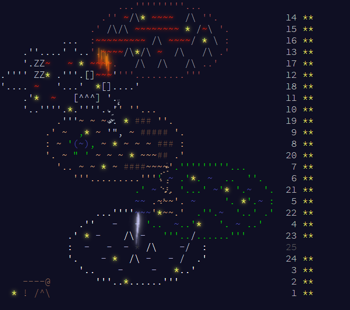
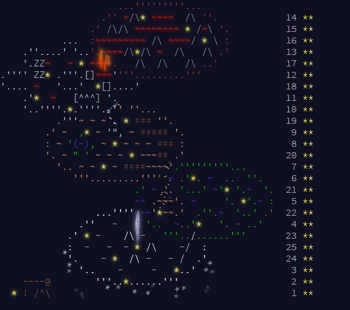
Day 25

diff --git a/2023/main_page/aoc/index_25.html b/2023/main_page/aoc/index_25.html
@@ -1,0 +1,146 @@
+<!DOCTYPE html>
+<html lang="en-us">
+<head>
+<meta charset="utf-8"/>
+<title>Advent of Code 2023</title>
+<!--[if lt IE 9]><script src="html5.js"></script><![endif]-->
+<link href='SourceCodePro.css' rel='stylesheet' type='text/css'>
+<link rel="stylesheet" type="text/css" href="style.css"/>
+<link rel="stylesheet alternate" type="text/css" href="highcontrast.css?0" title="High Contrast"/>
+<link rel="shortcut icon" href="favicon.png"/>
+</head><body>
+<main>
+<style>
+.calendar .islefall {
+  position: relative;
+}
+.calendar .islefall > span {
+  position: absolute;
+  animation: anim-calendar-islefall 3s linear infinite;
+  display: inline-block;
+  color: #ccccff;
+  text-shadow: 0 0 3px #ccccff, 0 0 5px #ccccff, 0 0 10px #ffffff, 0 0 15px #ffffff;
+  pointer-events: none;
+}
+@keyframes anim-calendar-islefall {
+    0% { transform: translateY(0);   opacity:0.0; }
+   10% {                             opacity:0.8; }
+  100% { transform: translateY(6ch); opacity:0.0; }
+}
+
+.calendar .gearfall {
+  position: relative;
+}
+.calendar .gearfall > span {
+  position: absolute;
+  animation: anim-calendar-gearfall-b 3s linear infinite;
+  display: inline-block;
+  color: #d4dde4;
+  pointer-events: none;
+}
+.calendar .gearfall > span.gearfall-whozit, .calendar .gearfall > span.gearfall-whatzit, .calendar .gearfall > span.gearfall-thingamabob {
+  animation-name: anim-calendar-gearfall-t;
+}
+@keyframes anim-calendar-gearfall-b {
+    0% { transform: translateY(0)   rotate(0)     translateY(-.5ch); opacity:0.0; }
+   20% {                                                             opacity:1.0; }
+   80% {                                                             opacity:1.0; }
+  100% { transform: translateY(4ch) rotate(2turn) translateY(-.5ch); opacity:0.0; }
+}
+@keyframes anim-calendar-gearfall-t {
+    0% { transform: translateY(0)   rotate(0)     translateY(.5ch); opacity:0.0; }
+   10% {                                                            opacity:1.0; }
+   90% {                                                            opacity:1.0; }
+  100% { transform: translateY(4ch) rotate(2turn) translateY(.5ch); opacity:0.0; }
+}
+
+.calendar .calendar-color-g { color:#00cc00; }
+.calendar .calendar-color-k { color:#6b4d3b; }
+.calendar .calendar-color-s { color:#e3b585; }
+.calendar .sandfall {
+  position: relative;
+}
+.calendar .sandfall > span {
+  position: absolute;
+  animation: anim-calendar-sandfall 3s linear infinite;
+  display: inline-block;
+  color: #e3b585;
+  pointer-events: none;
+}
+@keyframes anim-calendar-sandfall {
+    0% { transform: translateY(0);     opacity:0.0; }
+   10% {                               opacity:0.8; }
+   90% {                               opacity:0.8; }
+  100% { transform: translateY(7.5ch); opacity:0.0; }
+}
+
+.calendar .calendar-color-l { color:#ccccff; }
+.calendar .calendar-color-b { color:#5555bb; }
+.calendar .snowfall {
+  position: relative;
+}
+.calendar .snowfall > span {
+  position: absolute;
+  animation: anim-calendar-snowfall 10s linear infinite;
+  display: inline-block;
+  color: #ffffff;
+  pointer-events: none;
+}
+@keyframes anim-calendar-snowfall {
+    0% { transform: translate(0,0)      rotate(0);       opacity:0.0; }
+   10% {                                                 opacity:0.8; }
+  100% { transform: translate(1ch, 6ch) rotate(0.5turn); opacity:0.0; }
+}
+
+.calendar .calendar-color-w { color:#ffffff; }
+.calendar .calendar-color-v { color:#df2308; text-shadow:0 0 5px #df2308, 0 0 10px #df2308; }
+.calendar .calendar-color-y { color:#ffff66; text-shadow:0 0 5px #ffff66, 0 0 10px #ffff66; }
+.calendar .calendar-color-m { color:#d4dde4; }
+.calendar .calendar-color-n { color:#9b715b; }
+.calendar .calendar-color-a { color:#a5a8af; }
+.calendar .lavafall {
+  position: relative;
+}
+.calendar .lavafall > span {
+  position: absolute;
+  animation: anim-calendar-lavafall 3s linear infinite;
+  display: inline-block;
+  pointer-events: none;
+}
+@keyframes anim-calendar-lavafall {
+    0% { transform: translateY(0);   opacity:0.0; color:#faa718; text-shadow: 0 0 3px #faa718, 0 0 5px #faa718, 0 0 10px #faa718, 0 0 15px #faa718, 0 0 20px #faa718; }
+   20% {                             opacity:0.8; }
+   80% {                             opacity:0.8; }
+  100% { transform: translateY(3ch); opacity:0.0; color:#df2308; text-shadow: 0 0 3px #df2308, 0 0 5px #df2308, 0 0 10px #df2308, 0 0 15px #df2308, 0 0 20px #df2308; }
+}
+
+.calendar .calendar-color-i { color:#a25151; }
+</style>
+<pre class="calendar calendar-perfect"><a aria-label="Day 14, two stars" href="day_14.html" class="calendar-day14 calendar-verycomplete">                     <span class="calendar-color-i">...'''''''''...</span>                    
+                  <span class="calendar-color-i">.''</span> <span class="calendar-color-v">~</span><span class="calendar-color-a">/\</span><span class="calendar-color-y">*</span> <span class="calendar-color-v">~~~~</span>  <span class="calendar-color-a">/\</span> <span class="calendar-color-i">''.</span>            <span class="calendar-day">14</span> <span class="calendar-mark-complete">*</span><span class="calendar-mark-verycomplete">*</span></a>
+<a aria-label="Day 15, two stars" href="day_15.html" class="calendar-day15 calendar-verycomplete">                <span class="calendar-color-i">.'</span> <span class="calendar-color-a">/\/\</span> <span class="calendar-color-v">~~~~~~~~</span> <span class="calendar-color-y">*</span> <span class="calendar-color-a">/</span><span class="calendar-color-v">~</span><span class="calendar-color-a">\</span> <span class="calendar-color-i">'.</span>          <span class="calendar-day">15</span> <span class="calendar-mark-complete">*</span><span class="calendar-mark-verycomplete">*</span></a>
+<a aria-label="Day 16, two stars" href="day_16.html" class="calendar-day16 calendar-verycomplete">           <span class="calendar-color-m">...</span>  <span class="calendar-color-i">:</span><span class="calendar-color-v">~~~~~~~~~</span> <span class="calendar-color-a">/\</span> <span class="calendar-color-v">~~~~</span><span class="calendar-color-a">/</span> <span class="calendar-color-y">*</span> <span class="calendar-color-a">\</span> <span class="calendar-color-i">:</span>          <span class="calendar-day">16</span> <span class="calendar-mark-complete">*</span><span class="calendar-mark-verycomplete">*</span></a>
+<a aria-label="Day 13, two stars" href="day_13.html" class="calendar-day13 calendar-verycomplete">    <span class="calendar-color-m">.''....'</span> <span class="calendar-color-m">'..</span><span class="calendar-color-i">'.<span class="lavafall" style=""><span style="left:-8.9px;top:-8.9px;animation-delay:-2.90s">|</span><span style="left:5.8px;top:5.8px;animation-delay:-0.52s">|</span><span style="left:-6.9px;top:-6.9px;animation-delay:-1.56s">|</span><span style="left:2.9px;top:2.9px;animation-delay:-1.79s">|</span><span style="left:6.0px;top:6.0px;animation-delay:-2.98s">|</span><span style="left:-4.1px;top:-4.1px;animation-delay:-1.53s">|</span><span style="left:-4.9px;top:-4.9px;animation-delay:-2.03s">|</span><span style="left:5.6px;top:5.6px;animation-delay:-2.68s">|</span><span style="left:11.0px;top:11.0px;animation-delay:-0.15s">|</span><span style="left:-2.8px;top:-2.8px;animation-delay:-2.12s">|</span><span style="left:-6.5px;top:-6.5px;animation-delay:-2.67s">|</span><span style="left:9.9px;top:9.9px;animation-delay:-0.28s">|</span><span style="left:-1.8px;top:-1.8px;animation-delay:-2.84s">|</span><span style="left:-5.4px;top:-5.4px;animation-delay:-0.55s">|</span><span style="left:1.9px;top:1.9px;animation-delay:-2.01s">|</span><span style="left:-9.7px;top:-9.7px;animation-delay:-2.52s">|</span><span style="left:2.6px;top:2.6px;animation-delay:-2.08s">|</span><span style="left:-5.4px;top:-5.4px;animation-delay:-2.16s">|</span><span style="left:-4.9px;top:-4.9px;animation-delay:-0.55s">|</span><span style="left:-7.9px;top:-7.9px;animation-delay:-1.83s">|</span></span></span><span class="calendar-color-v">~~~~</span><span class="calendar-color-a">/\</span><span class="calendar-color-y">*</span><span class="calendar-color-a">/\</span> <span class="calendar-color-v">~</span>  <span class="calendar-color-a">/\</span>   <span class="calendar-color-a">/\</span> <span class="calendar-color-i">.'</span>          <span class="calendar-day">13</span> <span class="calendar-mark-complete">*</span><span class="calendar-mark-verycomplete">*</span></a>
+<a aria-label="Day 17, two stars" href="day_17.html" class="calendar-day17 calendar-verycomplete">    <span class="calendar-color-m">'.ZZ</span><span class="calendar-color-v">~</span>   <span class="calendar-color-v">~</span> <span class="calendar-color-y">*</span> <span class="calendar-color-v">~~~~</span><span class="calendar-color-i">.</span>   <span class="calendar-color-a">/\</span>  <span class="calendar-color-a">/\</span>   <span class="calendar-color-a">/\</span> <span class="calendar-color-i">..'</span>            <span class="calendar-day">17</span> <span class="calendar-mark-complete">*</span><span class="calendar-mark-verycomplete">*</span></a>
+<a aria-label="Day 12, two stars" href="day_12.html" class="calendar-day12 calendar-verycomplete"><span class="calendar-color-m">.''''</span> <span class="calendar-color-m">ZZ</span><span class="calendar-color-y">*</span> <span class="calendar-color-m">.'''.[]</span><span class="calendar-color-v">~~~</span><span class="calendar-color-m">'</span><span class="calendar-color-i">'''.........'''</span>               <span class="calendar-day">12</span> <span class="calendar-mark-complete">*</span><span class="calendar-mark-verycomplete">*</span></a>
+<a aria-label="Day 18, two stars" href="day_18.html" class="calendar-day18 calendar-verycomplete"><span class="calendar-color-m">'....</span> <span class="calendar-color-v">~</span>   <span class="calendar-color-m">'...'</span>  <span class="calendar-color-y">*</span><span class="calendar-color-m">[]....'</span>                          <span class="calendar-day">18</span> <span class="calendar-mark-complete">*</span><span class="calendar-mark-verycomplete">*</span></a>
+<a aria-label="Day 11, two stars" href="day_11.html" class="calendar-day11 calendar-verycomplete">    <span class="calendar-color-m">.'</span><span class="calendar-color-y">*</span>  <span class="calendar-color-v">~</span>   <span class="calendar-color-m">[^^^]</span> <span class="calendar-color-m">'.</span>                              <span class="calendar-day">11</span> <span class="calendar-mark-complete">*</span><span class="calendar-mark-verycomplete">*</span></a>
+<a aria-label="Day 10, two stars" href="day_10.html" class="calendar-day10 calendar-verycomplete">    <span class="calendar-color-m">'..''''.</span><span class="calendar-color-y">*</span><span class="calendar-color-m">.''''.<span class="gearfall" style=""><span class="gearfall-whatzit" style="left:0.7px;top:-0.7px;animation-delay:-0.10s">&quot;</span><span class="gearfall-thingamabob" style="left:11.0px;top:-11.0px;animation-delay:-2.99s">'</span><span class="gearfall-gadget" style="left:13.4px;top:-13.4px;animation-delay:-2.64s">.</span><span class="gearfall-whozit" style="left:15.3px;top:-15.3px;animation-delay:-0.00s">`</span><span class="gearfall-thingamabob" style="left:4.4px;top:-4.4px;animation-delay:-2.89s">'</span><span class="gearfall-gadget" style="left:19.5px;top:-19.5px;animation-delay:-0.50s">.</span><span class="gearfall-whozit" style="left:9.8px;top:-9.8px;animation-delay:-2.25s">`</span><span class="gearfall-thingamabob" style="left:1.5px;top:-1.5px;animation-delay:-1.04s">'</span><span class="gearfall-gizmo" style="left:13.1px;top:-13.1px;animation-delay:-2.59s">,</span><span class="gearfall-whozit" style="left:13.0px;top:-13.0px;animation-delay:-0.09s">`</span></span>.'</span><span class="calendar-color-s">'</span> <span class="calendar-color-s">''...</span>                       <span class="calendar-day">10</span> <span class="calendar-mark-complete">*</span><span class="calendar-mark-verycomplete">*</span></a>
+<a aria-label="Day 19, two stars" href="day_19.html" class="calendar-day19 calendar-verycomplete">          <span class="calendar-color-s">.</span><span class="calendar-color-m">'''</span><span class="calendar-color-s">~</span> <span class="calendar-color-s">~</span> <span class="calendar-color-s">~</span> <span class="calendar-color-m">.</span> <span class="calendar-color-y">*</span> <span class="calendar-color-k">###</span> <span class="calendar-color-s">''.</span>                    <span class="calendar-day">19</span> <span class="calendar-mark-complete">*</span><span class="calendar-mark-verycomplete">*</span></a>
+<a aria-label="Day 9, two stars" href="day_09.html" class="calendar-day9 calendar-verycomplete">        <span class="calendar-color-s">.'</span> <span class="calendar-color-s">~</span>  <span class="calendar-color-g">,</span><span class="calendar-color-y">*</span> <span class="calendar-color-s">~</span> <span class="calendar-color-m">'&quot;,</span> <span class="calendar-color-s">~</span> <span class="calendar-color-k">#####</span> <span class="calendar-color-s">'.</span>                  <span class="calendar-day"> 9</span> <span class="calendar-mark-complete">*</span><span class="calendar-mark-verycomplete">*</span></a>
+<a aria-label="Day 8, two stars" href="day_08.html" class="calendar-day8 calendar-verycomplete">        <span class="calendar-color-s">:</span> <span class="calendar-color-s">~</span> <span class="calendar-color-g">'</span><span class="calendar-color-b">(~)</span><span class="calendar-color-g">,</span> <span class="calendar-color-s">~</span> <span class="calendar-color-y">*</span> <span class="calendar-color-s">~</span> <span class="calendar-color-s">~</span> <span class="calendar-color-s">~</span> <span class="calendar-color-k">###</span> <span class="calendar-color-s">:</span>                  <span class="calendar-day"> 8</span> <span class="calendar-mark-complete">*</span><span class="calendar-mark-verycomplete">*</span></a>
+<a aria-label="Day 20, two stars" href="day_20.html" class="calendar-day20 calendar-verycomplete">        <span class="calendar-color-s">'.</span> <span class="calendar-color-s">~</span> <span class="calendar-color-g">&quot;</span> <span class="calendar-color-g">'</span> <span class="calendar-color-s">~</span> <span class="calendar-color-s">~</span> <span class="calendar-color-s">~</span> <span class="calendar-color-y">*</span> <span class="calendar-color-s">~~~</span><span class="calendar-color-k">##</span> <span class="calendar-color-s">.'</span>                  <span class="calendar-day">20</span> <span class="calendar-mark-complete">*</span><span class="calendar-mark-verycomplete">*</span></a>
+<a aria-label="Day 7, two stars" href="day_07.html" class="calendar-day7 calendar-verycomplete">          <span class="calendar-color-s">'..</span> <span class="calendar-color-s">~</span> <span class="calendar-color-s">~</span> <span class="calendar-color-y">*</span> <span class="calendar-color-s">~</span> <span class="calendar-color-k">####</span><span class="calendar-color-s">~~<span class="sandfall" style=""><span style="left:9.6px;top:-9.6px;animation-delay:-2.12s">.</span><span style="left:14.9px;top:-14.9px;animation-delay:-2.00s">.</span><span style="left:12.7px;top:-12.7px;animation-delay:-2.56s">.</span><span style="left:8.7px;top:-8.7px;animation-delay:-2.56s">.</span><span style="left:20.0px;top:-20.0px;animation-delay:-2.95s">.</span><span style="left:17.6px;top:-17.6px;animation-delay:-0.32s">.</span><span style="left:12.3px;top:-12.3px;animation-delay:-1.46s">.</span><span style="left:0.9px;top:-0.9px;animation-delay:-2.52s">.</span><span style="left:3.4px;top:-3.4px;animation-delay:-1.71s">.</span><span style="left:0.3px;top:-0.3px;animation-delay:-2.79s">.</span><span style="left:15.2px;top:-15.2px;animation-delay:-0.23s">.</span><span style="left:13.1px;top:-13.1px;animation-delay:-0.73s">.</span><span style="left:20.8px;top:-20.8px;animation-delay:-2.55s">.</span><span style="left:4.9px;top:-4.9px;animation-delay:-1.59s">.</span><span style="left:6.9px;top:-6.9px;animation-delay:-2.48s">.</span><span style="left:20.6px;top:-20.6px;animation-delay:-1.30s">.</span><span style="left:9.9px;top:-9.9px;animation-delay:-0.65s">.</span><span style="left:18.0px;top:-18.0px;animation-delay:-1.51s">.</span><span style="left:10.6px;top:-10.6px;animation-delay:-2.84s">.</span><span style="left:13.2px;top:-13.2px;animation-delay:-1.59s">.</span></span>~~'</span><span class="calendar-color-g">.'''''''''...</span>       <span class="calendar-day"> 7</span> <span class="calendar-mark-complete">*</span><span class="calendar-mark-verycomplete">*</span></a>
+<a aria-label="Day 6, two stars" href="day_06.html" class="calendar-day6 calendar-verycomplete">             <span class="calendar-color-s">'''.........'''</span><span class="calendar-color-g">'</span> <span class="calendar-color-b">~</span> <span class="calendar-color-g">.'</span><span class="calendar-color-y">*</span><span class="calendar-color-g">.</span> <span class="calendar-color-b">~</span>  <span class="calendar-color-g">..</span>  <span class="calendar-color-g">''.</span>    <span class="calendar-day"> 6</span> <span class="calendar-mark-complete">*</span><span class="calendar-mark-verycomplete">*</span></a>
+<a aria-label="Day 21, two stars" href="day_21.html" class="calendar-day21 calendar-verycomplete">                        <span class="calendar-color-g">.'</span> <span class="calendar-color-b">~</span> <span class="calendar-color-s">..</span> <span class="calendar-color-g">'...'</span> <span class="calendar-color-b">~</span><span class="calendar-color-g">'</span><span class="calendar-color-y">*</span> <span class="calendar-color-g">'.</span><span class="calendar-color-b">~</span>  <span class="calendar-color-g">'.</span>  <span class="calendar-day">21</span> <span class="calendar-mark-complete">*</span><span class="calendar-mark-verycomplete">*</span></a>
+<a aria-label="Day 5, two stars" href="day_05.html" class="calendar-day5 calendar-verycomplete">                        <span class="calendar-color-b">~~</span> <span class="calendar-color-s">.~~~'.</span> <span class="calendar-color-b">~</span>     <span class="calendar-color-g">'.</span> <span class="calendar-color-y">*</span><span class="calendar-color-g">'.</span><span class="calendar-color-b">~</span> <span class="calendar-color-g">:</span>  <span class="calendar-day"> 5</span> <span class="calendar-mark-complete">*</span><span class="calendar-mark-verycomplete">*</span></a>
+<a aria-label="Day 22, two stars" href="day_22.html" class="calendar-day22 calendar-verycomplete">                 <span class="calendar-color-w">...''''<span class="islefall" style=""><span style="left:-0.9px;top:3.8px;animation-delay:-0.15s">|</span><span style="left:2.4px;top:-2.2px;animation-delay:-0.30s">|</span><span style="left:-1.6px;top:3.1px;animation-delay:-0.45s">|</span><span style="left:3.5px;top:2.7px;animation-delay:-0.60s">|</span><span style="left:-2.9px;top:1.7px;animation-delay:-0.75s">|</span><span style="left:1.2px;top:3.9px;animation-delay:-0.90s">|</span><span style="left:-0.1px;top:1.4px;animation-delay:-1.05s">|</span><span style="left:-1.2px;top:2.6px;animation-delay:-1.20s">|</span><span style="left:1.2px;top:-2.4px;animation-delay:-1.35s">|</span><span style="left:0.5px;top:3.2px;animation-delay:-1.50s">|</span><span style="left:3.7px;top:0.6px;animation-delay:-1.65s">|</span><span style="left:0.7px;top:1.5px;animation-delay:-1.80s">|</span><span style="left:-0.7px;top:-2.0px;animation-delay:-1.95s">|</span><span style="left:3.1px;top:-1.8px;animation-delay:-2.10s">|</span><span style="left:-0.7px;top:2.5px;animation-delay:-2.25s">|</span><span style="left:1.5px;top:-1.6px;animation-delay:-2.40s">|</span><span style="left:-2.1px;top:-0.6px;animation-delay:-2.55s">|</span><span style="left:-0.7px;top:3.1px;animation-delay:-2.70s">|</span><span style="left:3.1px;top:1.1px;animation-delay:-2.85s">|</span><span style="left:1.7px;top:-1.5px;animation-delay:-3.00s">|</span></span></span><span class="calendar-color-b">~~~</span><span class="calendar-color-s">'</span><span class="calendar-color-y">*</span><span class="calendar-color-s">~~.'</span>  <span class="calendar-color-g">.''.</span><span class="calendar-color-b">~</span>  <span class="calendar-color-g">'..'</span> <span class="calendar-color-g">.'</span>  <span class="calendar-day">22</span> <span class="calendar-mark-complete">*</span><span class="calendar-mark-verycomplete">*</span></a>
+<a aria-label="Day 4, two stars" href="day_04.html" class="calendar-day4 calendar-verycomplete">              <span class="calendar-color-w">.''</span>   <span class="calendar-color-l">-</span>   <span class="calendar-color-l">-</span> <span class="calendar-color-g">'..</span>  <span class="calendar-color-b">~</span><span class="calendar-color-g">..'</span><span class="calendar-color-y">*</span>   <span class="calendar-color-g">'.</span> <span class="calendar-color-b">~</span> <span class="calendar-color-g">..'</span>    <span class="calendar-day"> 4</span> <span class="calendar-mark-complete">*</span><span class="calendar-mark-verycomplete">*</span></a>
+<a aria-label="Day 23, two stars" href="day_23.html" class="calendar-day23 calendar-verycomplete">            <span class="calendar-color-w">.'</span> <span class="calendar-color-y">*</span> <span class="calendar-color-l">-</span>    <span class="calendar-color-w">/\</span> <span class="calendar-color-l">-</span>   <span class="calendar-color-g">'''..</span><span class="calendar-color-m">/</span><span class="calendar-color-g">......'''</span>       <span class="calendar-day">23</span> <span class="calendar-mark-complete">*</span><span class="calendar-mark-verycomplete">*</span></a>
+<a aria-label="Day 25, two stars" href="day_25.html" class="calendar-day25 calendar-verycomplete">            <span class="calendar-color-w">:</span>  <span class="calendar-color-l">-</span>   <span class="calendar-color-l">-</span>  <span class="calendar-color-l">-</span> <span class="snowfall" style=""><span style="left:12.10ch;top:2.57ch;animation-delay:-2.33s">*</span><span style="left:-3.46ch;top:6.75ch;animation-delay:-0.50s">*</span><span style="left:-10.59ch;top:4.06ch;animation-delay:-7.05s">*</span><span style="left:-12.59ch;top:1.74ch;animation-delay:-4.08s">*</span><span style="left:-3.27ch;top:6.78ch;animation-delay:-6.60s">*</span><span style="left:2.69ch;top:6.85ch;animation-delay:-0.03s">*</span><span style="left:-5.42ch;top:6.36ch;animation-delay:-1.18s">*</span><span style="left:6.94ch;top:5.92ch;animation-delay:-2.46s">*</span><span style="left:1.71ch;top:6.94ch;animation-delay:-1.96s">*</span><span style="left:-12.98ch;top:0.34ch;animation-delay:-0.87s">*</span><span style="left:6.54ch;top:6.05ch;animation-delay:-4.42s">*</span><span style="left:9.33ch;top:4.87ch;animation-delay:-8.35s">*</span><span style="left:-12.21ch;top:2.40ch;animation-delay:-0.96s">*</span><span style="left:7.96ch;top:5.54ch;animation-delay:-7.32s">*</span><span style="left:11.93ch;top:2.78ch;animation-delay:-7.24s">*</span><span style="left:-0.59ch;top:6.99ch;animation-delay:-1.33s">*</span><span style="left:-11.60ch;top:3.16ch;animation-delay:-7.40s">*</span><span style="left:12.77ch;top:1.30ch;animation-delay:-9.56s">*</span><span style="left:-7.64ch;top:5.66ch;animation-delay:-6.74s">*</span><span style="left:12.76ch;top:1.35ch;animation-delay:-2.25s">*</span><span style="left:8.06ch;top:5.49ch;animation-delay:-2.83s">*</span><span style="left:-10.29ch;top:4.27ch;animation-delay:-8.84s">*</span><span style="left:-9.43ch;top:4.82ch;animation-delay:-8.65s">*</span><span style="left:-0.27ch;top:7.00ch;animation-delay:-5.25s">*</span><span style="left:12.84ch;top:1.09ch;animation-delay:-5.34s">*</span><span style="left:-6.46ch;top:6.08ch;animation-delay:-6.68s">*</span><span style="left:8.79ch;top:5.16ch;animation-delay:-7.74s">*</span><span style="left:4.50ch;top:6.57ch;animation-delay:-8.08s">*</span><span style="left:11.55ch;top:3.22ch;animation-delay:-7.64s">*</span><span style="left:-10.50ch;top:4.13ch;animation-delay:-7.92s">*</span></span><span class="calendar-color-y">*</span> <span class="calendar-color-w">/\</span>    <span class="calendar-color-l">-</span><span class="calendar-color-m">/</span>  <span class="calendar-color-w">:</span>              <span class="calendar-day">25</span> <span class="calendar-mark-complete">*</span><span class="calendar-mark-verycomplete">*</span></a>
+<a aria-label="Day 24, two stars" href="day_24.html" class="calendar-day24 calendar-verycomplete">            <span class="calendar-color-w">'.</span>    <span class="calendar-color-l">-</span> <span class="calendar-color-y">*</span>  <span class="calendar-color-w">/\</span> <span class="calendar-color-l">-</span>   <span class="calendar-color-l">-</span> <span class="calendar-color-m">/</span>  <span class="calendar-color-w">.'</span>              <span class="calendar-day">24</span> <span class="calendar-mark-complete">*</span><span class="calendar-mark-verycomplete">*</span></a>
+<a aria-label="Day 3, two stars" href="day_03.html" class="calendar-day3 calendar-verycomplete">              <span class="calendar-color-w">'..</span>    <span class="calendar-color-l">-</span>     <span class="calendar-color-l">-</span>   <span class="calendar-color-y">*</span><span class="calendar-color-w">..'</span>                <span class="calendar-day"> 3</span> <span class="calendar-mark-complete">*</span><span class="calendar-mark-verycomplete">*</span></a>
+<a aria-label="Day 2, two stars" href="day_02.html" class="calendar-day2 calendar-verycomplete">    <span class="calendar-color-n">----@</span>        <span class="calendar-color-w">'''..</span><span class="calendar-color-y">*</span><span class="calendar-color-w">......'''</span>                   <span class="calendar-day"> 2</span> <span class="calendar-mark-complete">*</span><span class="calendar-mark-verycomplete">*</span></a>
+<a aria-label="Day 1, two stars" href="day_01.html" class="calendar-day1 calendar-verycomplete">  <span class="calendar-color-y">*</span> <span class="calendar-color-n">!</span> <span class="calendar-color-n">/^\</span>                                          <span class="calendar-day"> 1</span> <span class="calendar-mark-complete">*</span><span class="calendar-mark-verycomplete">*</span></a>
+</pre>
+</main></body></html>
